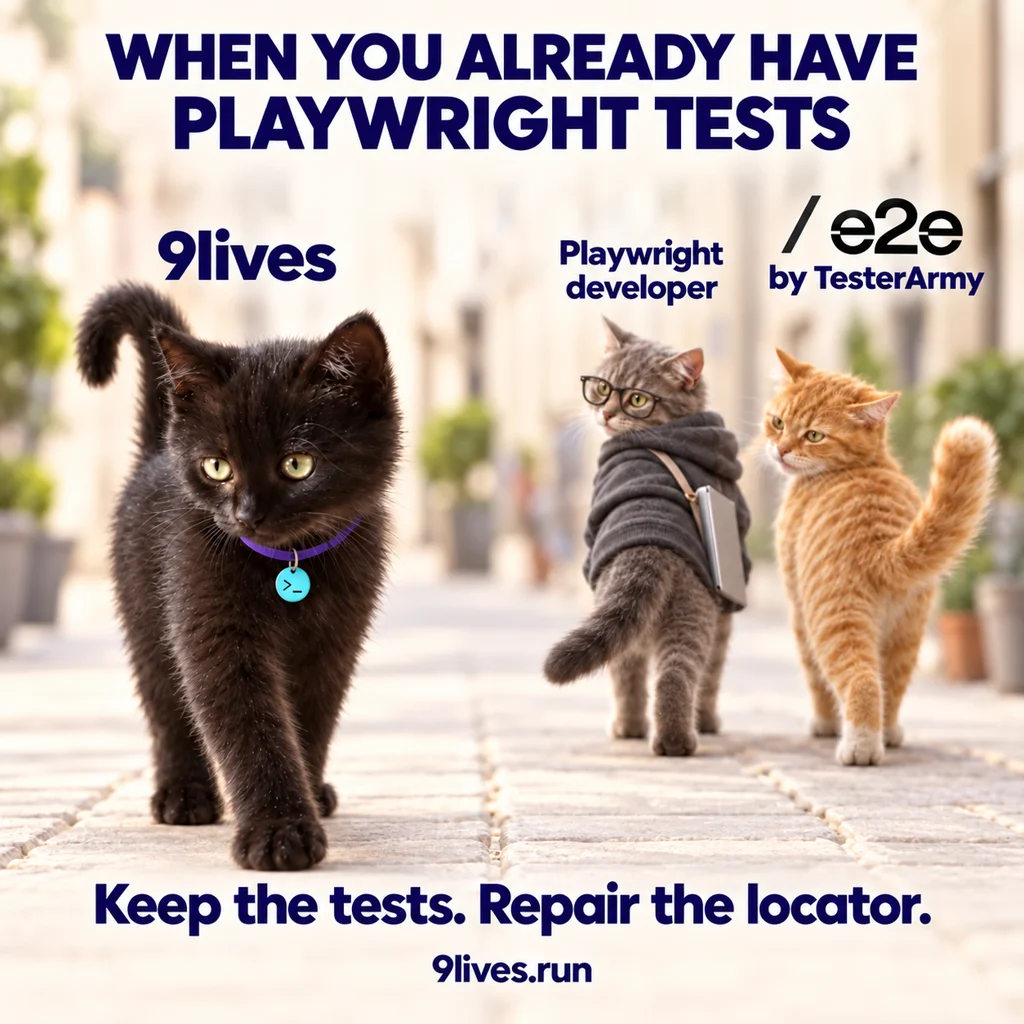
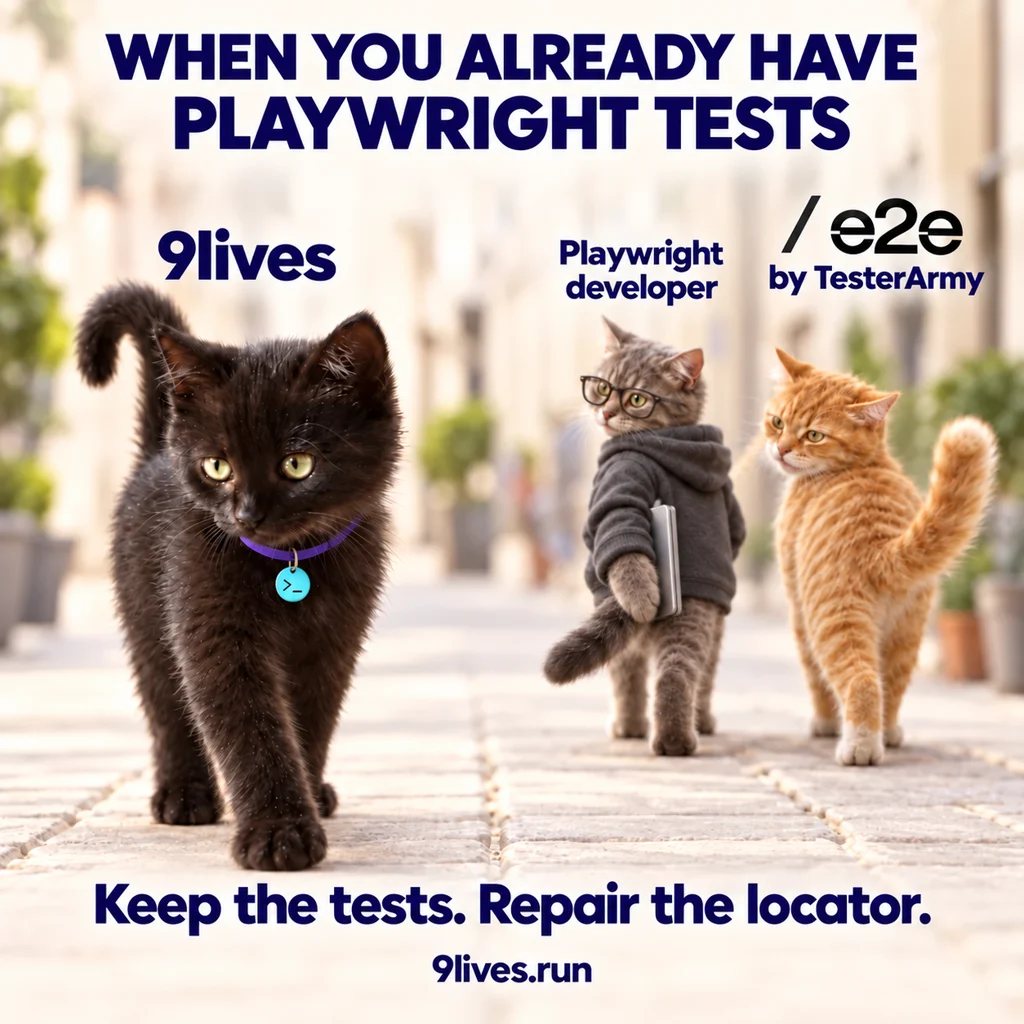
Restore initial cat expressions and upright laptop-carrying developer

diff --git a/website/app/page.tsx b/website/app/page.tsx
@@ -12,7 +12,7 @@ const memes = [
   {
     file: 'distracted-team-launch-v2',
     title: 'When you already have Playwright tests.',
-    alt: 'Distracted-boyfriend cat parody with three cats walking on four paws: the black Qmax kitten labeled 9lives approaches in the left foreground. Farther back on the right, the grey Playwright developer cat in glasses and a hoodie and the ginger e2e by TesterArmy companion walk away. The developer looks back at 9lives, with a laptop strapped to his side, while the companion looks at him. Keep the tests. Repair the locator.',
+    alt: 'Distracted-boyfriend cat parody: the black Qmax kitten labeled 9lives approaches in the left foreground. Farther back on the right, the grey Playwright developer cat in glasses and a hoodie walks away upright on two paws, carrying a silver laptop under his arm and looking back toward 9lives. The ginger e2e by TesterArmy companion looks toward the developer. Keep the tests. Repair the locator.',
     copy: 'e2e by TesterArmy vs 9lives, through the eyes of a team with an existing Playwright suite. Try the runner on a real test and review the repair.',
   },
   {
